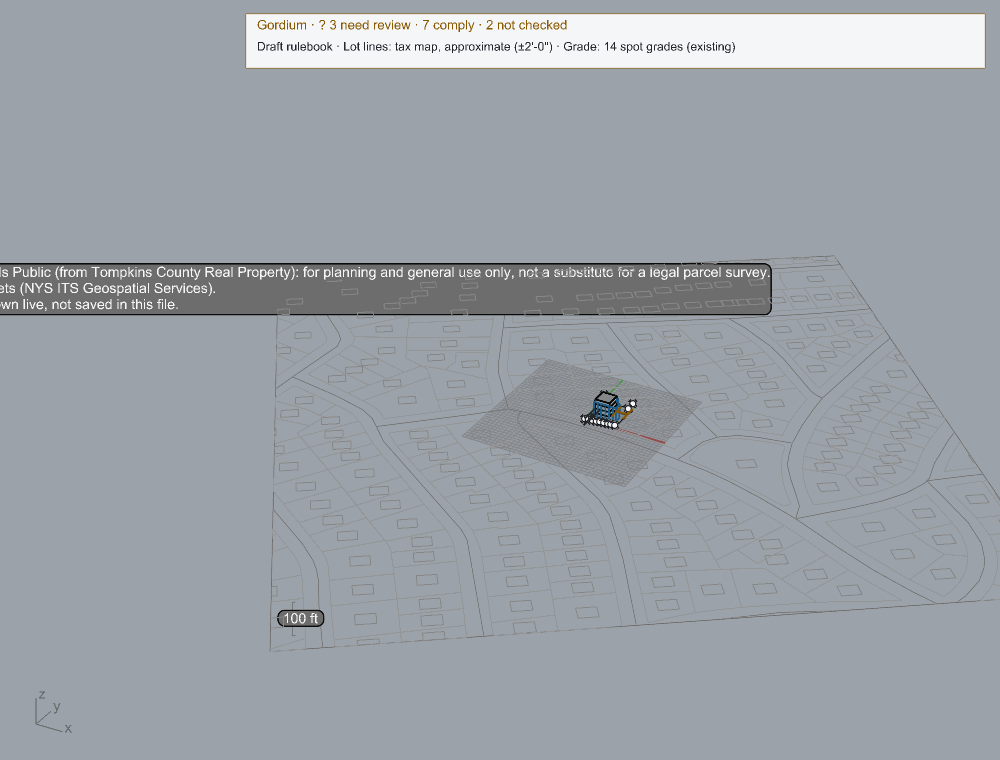
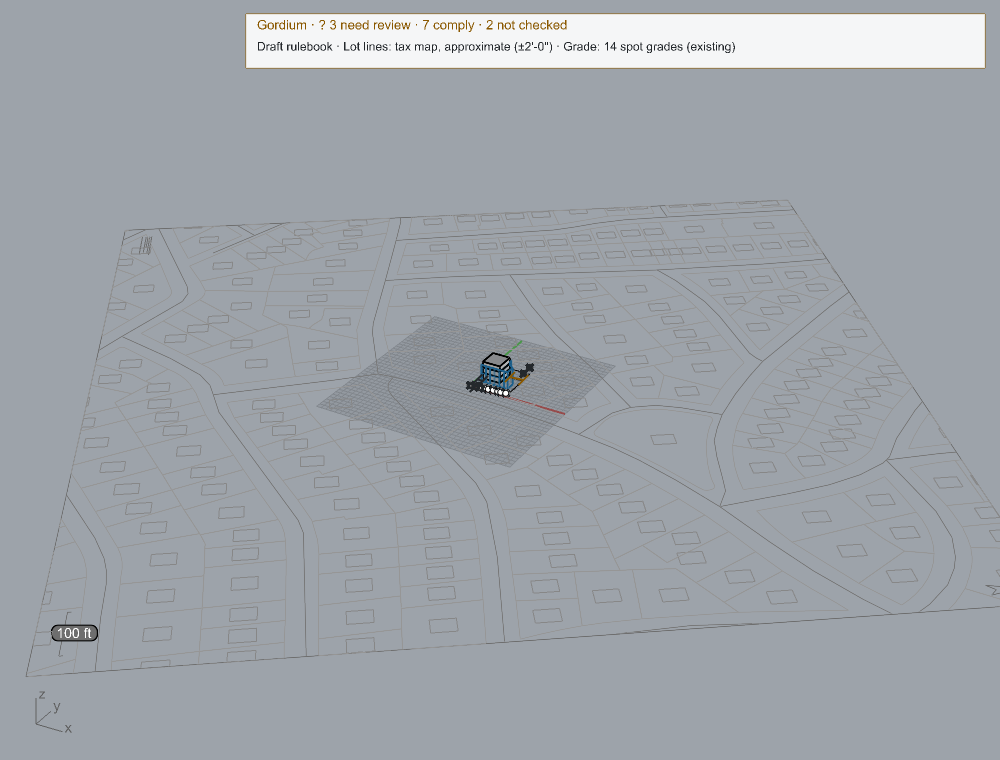
test: the context map's Rhino check measures turned text on its own axes; evidence: 11 of 11 claims true
The Rhino job's patch: GetBoundingBox(plane) on text turned 306 degrees returns an inflated box (116 x 113 ft for
the 94 x 23 ft sources note), so the check now turns a copy onto the world's axes, boxes it, and puts the corners
back. With it, at b908e99: 11 of 11 claims (the sources note at its own scale 1, 2.5 ft text, 3.88 ft a line,
every note inside the square). docs/evidence/pr-23 replaces the first run (9/9) with this one.

Claude-Session: https://claude.ai/code/session_01NL5c31gf3hkiiPUoGve2zh

diff --git a/apps/rhino_plugin/tests/context_in_rhino.py b/apps/rhino_plugin/tests/context_in_rhino.py
@@ -68,6 +68,17 @@ def context_layers(g, doc):
     return out
 
 
+def _own_box(geom):
+    """A text's box on its own axes: a copy turned from its plane onto the world's, boxed, then its corners put back
+    (GetBoundingBox(geom.Plane) on turned text is no box of the letters: 116 x 113 ft for the 94 x 23 ft Sources
+    note at 306 degrees, Rhino job's probe 2026-10-21)."""
+    rg = Rhino.Geometry
+    flat = geom.Duplicate()
+    flat.Transform(rg.Transform.ChangeBasis(rg.Plane.WorldXY, geom.Plane))
+    box = flat.GetBoundingBox(True)
+    return box, [geom.Plane.PointAt(c.X, c.Y) for c in list(box.GetCorners())[:4]]
+
+
 def notes_inside_square(g, doc):
     """Every object on the Notes layer, besides the square itself, measured inside the square by its own points: a
     text by the corners of its box in its own plane (turned with the square), a curve by its vertices, a dot by its
@@ -83,8 +94,7 @@ def notes_inside_square(g, doc):
             continue
         geom = o.Geometry
         if isinstance(geom, rg.TextEntity):
-            box = geom.GetBoundingBox(geom.Plane)
-            pts = [geom.Plane.PointAt(c.X, c.Y) for c in list(box.GetCorners())[:4]]
+            box, pts = _own_box(geom)
         elif isinstance(geom, rg.TextDot):
             pts = [geom.Point]
         else:
@@ -101,7 +111,7 @@ def notes_inside_square(g, doc):
             if isinstance(geom, rg.TextEntity) and lines:
                 # as displayed: a bounding box is the unscaled text; with annotation scaling on, Rhino draws it at
                 # the text's DimensionScale times that (the Rhino job's probe: the template's 12 made ~30 ft letters)
-                box = geom.GetBoundingBox(geom.Plane)
+                box = _own_box(geom)[0]
                 scaling = bool(getattr(doc, "ModelSpaceAnnotationScalingEnabled", False))
                 shown = geom.DimensionScale if scaling else 1.0
                 line_ft = round(g._feet_length(doc, box.Max.Y - box.Min.Y) * shown / len(lines), 2)

diff --git a/docs/evidence/pr-23/README.md b/docs/evidence/pr-23/README.md
@@ -4,15 +4,19 @@
 **For:** reviewers, engineers, Ben.\
 **Kept current by:** never changed (a dated record); a later run is added beside it.
 
-`apps/rhino_plugin/tests/context_in_rhino.py`, with the recorded answers for 106 Ithaca Rd (no live calls): 9 of 9
-claims true (`context_results.json`).
+`apps/rhino_plugin/tests/context_in_rhino.py` at b908e99 (with its own-axes measurement of turned text), with the
+recorded answers for 106 Ithaca Rd (no live calls): **11 of 11 claims true** (`context_results.json`). This run
+replaces the first one (9 of 9, before the sources note was fixed).
 
 | Claim | Result |
 |---|---|
 | 1 The neighbourhood is drawn on its own locked, grey layers: Parcels, Streets, Notes | 229 neighbouring parcels, 38 street lines; each layer locked, visible, in its grey |
 | 1 The notes: a north arrow, a scale bar and the sources | All three on the Notes layer |
+| 1 Every note lies inside the neighbourhood square | All 6 notes inside (each measured by its own points); the sources wrapped, 60 characters at most a line |
+| 1 The sources note is small | Its own scale 1 (not the template's 12), 2.5 ft text, 3.88 ft a line as displayed |
 | 2 The building footprints are on screen | 212 footprints, shown live |
-| 3 The checker never measures the context | One lot candidate; the check's summary is the same with and without the neighbourhood |
+| 3 The checker never measures the context | One lot candidate |
+| 3 The check is the same with and without the neighbourhood | The same summary both ways |
 | 3 Drawn again, it replaces | The same object counts, never doubled |
 | 4 The panel tick hides it and shows it again | Every context layer hidden, then shown |
 | 5 A saved file keeps no live-only source | No footprint (store: none) in the saved .3dm |
@@ -20,10 +24,12 @@ claims true (`context_results.json`).
 
 | File | What it shows |
 |---|---|
-| `106_context_top.png` | Top view: the neighbourhood around 106, north arrow and scale bar |
+| `106_context_top.png` | Top view: the neighbourhood around 106, north arrow, scale bar, and the sources note as a small block inside the square's left corner (2.5 ft text: readable when zoomed in, as drawing text is) |
 | `106_context_perspective.png` | The same in 3D |
 
-Seen in the screenshots, not covered by a claim (reported for this PR):
-- the sources note is one long label that runs off the left edge of the view in both views;
-- in Top view the lot's edge-length labels pile up in a column (the label placement this branch inherits; the
-  MVP branch places each label beside its own line).
+What the first run's screenshots showed, and what came of it:
+- the sources note was one long label running off the view: fixed (wrapped model text inside the square, at its own
+  scale; the first fix's 12 ft text inherited the template's dimension scale of 12 and drew ~30 ft letters, found
+  and fixed in the next runs);
+- in Top view the lot's edge-length labels pile up in a column: the label placement this branch inherits from
+  #15/#19; the MVP branch's `place_label` puts each beside its own line and reaches this PR when #15 carries it.
